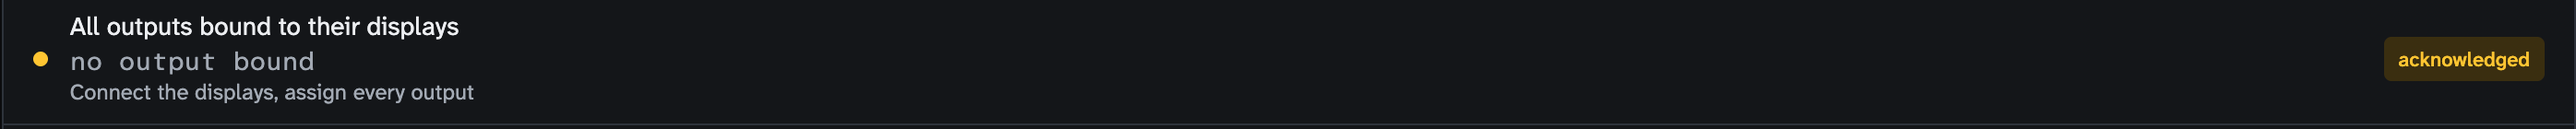
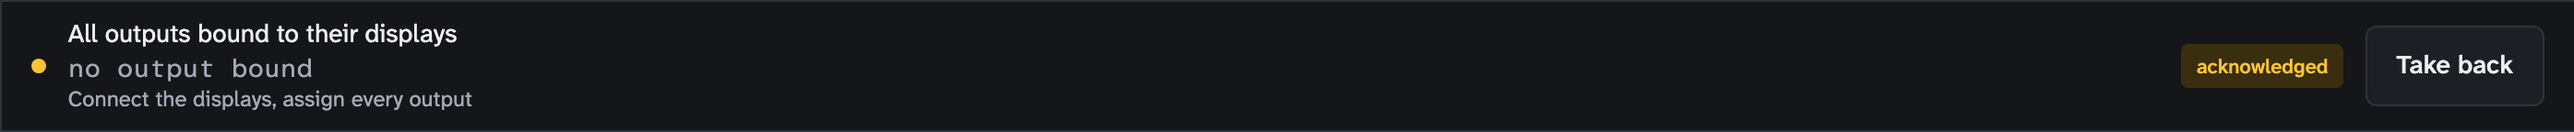
Retake the acknowledged readiness row with its Take back button

diff --git a/docs/user/show-day-checklist.md b/docs/user/show-day-checklist.md
@@ -140,7 +140,7 @@ the camera pass only while no cue uses what they check. An item that keeps
 failing for another reason, such as another silent universe, stays
 acknowledged.
 
-<img src="images/readiness-acknowledged.png" width="1396" alt="The row All outputs bound to their displays with a yellow dot and the badge acknowledged">
+<img src="images/readiness-acknowledged.png" width="1396" alt="The row All outputs bound to their displays with a yellow dot, the badge acknowledged and the Take back button">
 
 ```mermaid
 flowchart TD
